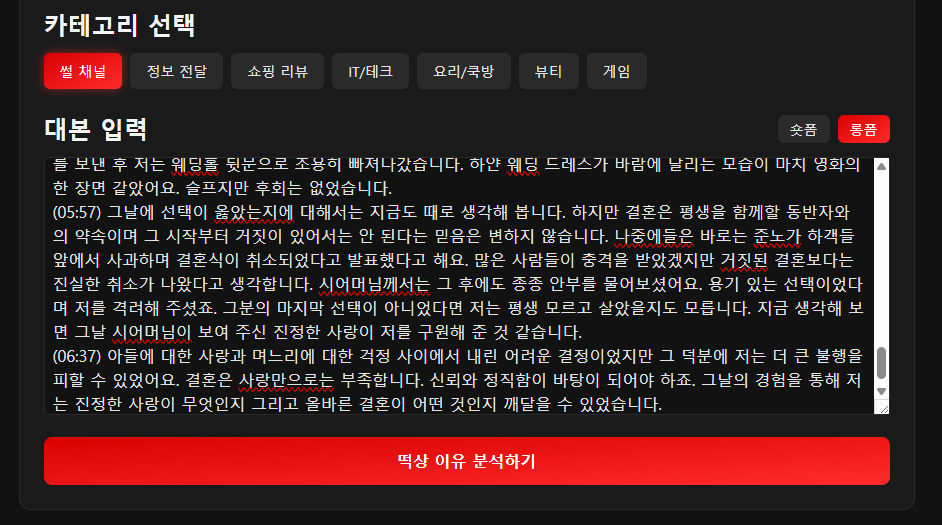
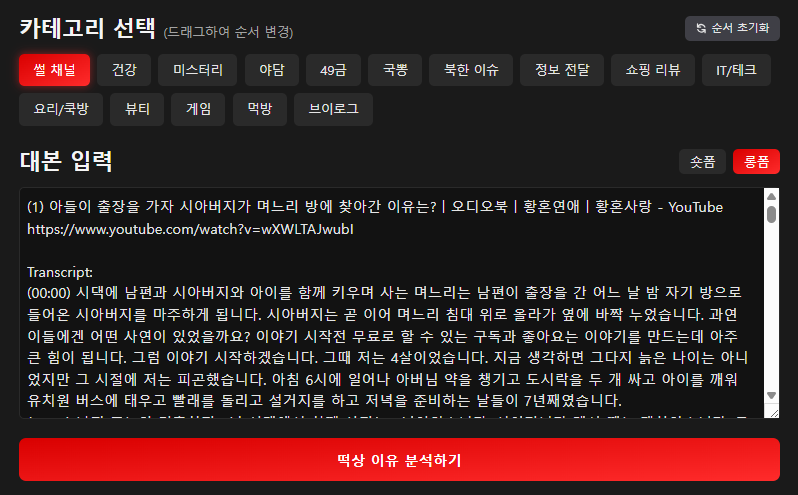
feat: 대본 생성 길이 개선 및 북한 이슈 카테고리 프롬프트 추가
- 1시간 분량 대본 최소 200라인 생성하도록 가이드라인 추가
- 30분: 100라인, 8분: 30라인 최소 생성
- 모든 카테고리에 영상 길이별 명확한 가이드 추가
- 북한 이슈 카테고리 전용 프롬프트 구현
- 사용자 피드백 반영: 1시간 대본이 800자에서 18,000-21,000자 분량으로 개선

diff --git a/services/geminiService.ts b/services/geminiService.ts
@@ -354,14 +354,29 @@ export const generateNewPlan = async (
     const isYadamChannel = category === "야담";
     const isMukbangChannel = category === "먹방";
     const isGukppongChannel = category === "국뽕";
+    const isNorthKoreaChannel = category === "북한 이슈";
     const schema =
-      isStoryChannel || is49Channel || isYadamChannel || isGukppongChannel
+      isStoryChannel || is49Channel || isYadamChannel || isGukppongChannel || isNorthKoreaChannel
         ? storyChannelNewPlanSchema
         : structuredOutlinePlanSchema;
 
     let contents;
+    
+    // 영상 길이에 따른 최소 대본 라인 수 계산
+    const getMinimumLines = (lengthStr: string): number => {
+      if (lengthStr.includes('1시간') || lengthStr.includes('60분')) return 200;
+      if (lengthStr.includes('30분')) return 100;
+      if (lengthStr.includes('8분')) return 30;
+      return 30;
+    };
+    
+    const minimumLines = getMinimumLines(length);
+    const lengthGuideline = length.includes('1시간') || length.includes('60분')
+      ? `\n\n**⚠ 중요: 영상 길이 가이드 (${length})**\n- 최소 ${minimumLines}개 이상의 대사 라인을 생성해야 합니다\n- 1시간 = 약 18,000-21,000자 분량 (한국어 낭독 속도 기준)\n- 각 대사는 자연스러운 대화 길이로 작성하되, 전체 스토리가 ${length} 분량에 맞도록 충분히 상세하게 작성하세요\n- 장면 전환, 복선, 클라이맥스 등 스토리 요소를 풍부하게 포함하세요\n- 대사 사이의 자연스러운 간격과 감정 표현도 충분히 담아주세요`
+      : `\n\n**영상 길이 가이드 (${length})**: 최소 ${minimumLines}개 이상의 대사 라인을 생성하세요.`;
+    
     if (isStoryChannel) {
-      contents = `"${newKeyword}"를 주제로 한 완전히 새로운 스토리 영상 기획안을 만들어 주세요. 목표 영상 길이는 약 ${length}입니다.
+      contents = `"${newKeyword}"를 주제로 한 완전히 새로운 스토리 영상 기획안을 만들어 주세요. 목표 영상 길이는 약 ${length}입니다.${lengthGuideline}
 
 **절대 규칙:**
 - 아래 제공된 분석 자료의 **대본 구조(단계별 흐름)**만 참고하세요
@@ -411,7 +426,7 @@ ${analysisString}
 
       contents = `"${newKeyword}"를 주제로 한 "${
         vlogType || "일상"
-      }" 타입의 완전히 새로운 브이로그를 기획해주세요. 목표 영상 길이는 약 ${length}입니다.
+      }" 타입의 완전히 새로운 브이로그를 기획해주세요. 목표 영상 길이는 약 ${length}입니다.${lengthGuideline}
 
 **절대 규칙:**
 - 아래 제공된 분석 자료의 **대본 구조(단계별 흐름)**만 참고하세요
@@ -460,7 +475,7 @@ ${analysisString}
 
 위 구조의 흐름만 참고하여, "${newKeyword}"를 주제로 완전히 새로운 브이로그 장면과 대사를 창작해주세요. 모든 결과 항목을 지정된 구조에 맞춰 JSON 형식으로 제공해주세요.`;
     } else if (isMukbangChannel) {
-      contents = `"${newKeyword}" 음식으로 완전히 새로운 먹방 영상 기획안을 만들어 주세요. 목표 영상 길이는 약 ${length}입니다.
+      contents = `"${newKeyword}" 음식으로 완전히 새로운 먹방 영상 기획안을 만들어 주세요. 목표 영상 길이는 약 ${length}입니다.${lengthGuideline}
 
 **절대 규칙:**
 - 아래 제공된 분석 자료의 **대본 구조(단계별 흐름)**만 참고하세요
@@ -495,7 +510,7 @@ ${analysisString}
 
 위 구조의 흐름만 참고하여, "${newKeyword}"를 주제로 완전히 새로운 먹방 장면과 리액션을 창작해주세요. 모든 결과 항목을 지정된 구조에 맞춰 JSON 형식으로 제공해주세요.`;
     } else if (category === "쇼핑 리뷰") {
-      contents = `"${newKeyword}" 제품에 대한 완전히 새로운 리뷰 영상 기획안을 만들어 주세요. 목표 영상 길이는 약 ${length}입니다.
+      contents = `"${newKeyword}" 제품에 대한 완전히 새로운 리뷰 영상 기획안을 만들어 주세요. 목표 영상 길이는 약 ${length}입니다.${lengthGuideline}
 
 **절대 규칙:**
 - 아래 제공된 분석 자료의 **대본 구조(단계별 흐름)**만 참고하세요
@@ -516,7 +531,7 @@ ${analysisString}
 
 위 구조의 흐름만 참고하여, "${newKeyword}"를 주제로 완전히 새로운 리뷰 내용을 창작해주세요. 모든 결과 항목을 지정된 구조에 맞춰 JSON 형식으로 제공해주세요.`;
     } else if (category === "49금") {
-      contents = `성인 대상의 성숙한 연애/관계 이야기("${newKeyword}")를 다루는 영상 기획안을 만들어 주세요. 목표 영상 길이는 약 ${length}입니다.
+      contents = `성인 대상의 성숙한 연애/관계 이야기("${newKeyword}")를 다루는 영상 기획안을 만들어 주세요. 목표 영상 길이는 약 ${length}입니다.${lengthGuideline}
 
 **중요: 콘텐츠 가이드라인**
 - 선정적이거나 노골적인 표현은 절대 사용하지 마세요
@@ -598,7 +613,7 @@ ${analysisString}
 
 성공적인 동영상 분석 내용:\n\n${analysisString}\n\n이제 위 분석된 성공 구조를 따르되 새로운 키워드 "${newKeyword}"에 초점을 맞춘 완전히 새로운 조선시대 야담 이야기를 창작해주세요. 원본 대본의 내용이나 스토리를 사용하지 말고, 새로운 인물과 사건으로 구성된 독창적인 야담을 만들어주세요. 모든 결과 항목을 지정된 구조에 맞춰 JSON 형식으로 제공해주세요.`;
     } else if (isGukppongChannel) {
-      contents = `한국의 우수성과 세계 속에서의 위상을 주제로 한 국뽕 콘텐츠("${newKeyword}")를 기획해 주세요. 목표 영상 길이는 약 ${length}입니다.
+      contents = `한국의 우수성과 세계 속에서의 위상을 주제로 한 국뽕 콘텐츠("${newKeyword}")를 기획해 주세요. 목표 영상 길이는 약 ${length}입니다.${lengthGuideline}
 
 **중요: 국뽕 콘텐츠 가이드라인**
 
@@ -697,8 +712,72 @@ ${analysisString}
 ${analysisString}
 
 위 구조의 흐름만 참고하여, "${newKeyword}"를 주제로 완전히 새로운 국뽕 스토리와 대사를 창작해주세요. 원본 대본의 사례나 내용은 사용하지 마세요. 모든 결과 항목을 지정된 구조에 맞춰 JSON 형식으로 제공해주세요.`;
+    } else if (isNorthKoreaChannel) {
+      contents = `북한 관련 이슈와 탈북민 이야기("${newKeyword}")를 다루는 영상 기획안을 만들어 주세요. 목표 영상 길이는 약 ${length}입니다.${lengthGuideline}
+
+**절대 규칙:**
+- 아래 제공된 분석 자료의 **대본 구조(단계별 흐름)**만 참고하세요
+- 원본 영상의 등장인물, 상황, 배경, 대사는 절대 사용하지 마세요
+- "${newKeyword}"를 중심으로 완전히 새로운 인물, 상황, 스토리를 창작하세요
+
+**중요: 북한 이슈 콘텐츠 가이드라인**
+
+북한 이슈 콘텐츠는 북한의 실상과 탈북민의 경험담을 진지하면서도 흥미롭게 다루는 콘텐츠입니다.
+
+**핵심 테마:**
+1. **탈북민의 생생한 증언**
+   - 북한에서의 실제 생활 경험
+   - 탈북 과정의 위험과 역경
+   - 남한 적응기와 문화 충격
+   - 북한에 두고 온 가족에 대한 그리움
+
+2. **북한 사회의 실상**
+   - 북한의 일상생활과 문화
+   - 계급 제도와 사회 구조
+   - 북한 주민들의 실제 생활상
+   - 외부 세계에 대한 북한 주민의 인식
+
+3. **남북 비교와 문화 차이**
+   - 같은 언어, 다른 문화
+   - 생활 방식의 차이
+   - 가치관과 사고방식의 차이
+   - 통일에 대한 현실적 고민
+
+**스토리텔링 구조:**
+1. 후크: 충격적이거나 흥미로운 북한 관련 사실
+2. 배경: 탈북민의 북한 생활 소개
+3. 전개: 구체적인 경험담과 에피소드
+4. 절정: 가장 인상 깊거나 극적인 순간
+5. 마무리: 현재의 삶과 메시지
+
+**배역 구성:**
+- '탈북민', '인터뷰어', '친구', '가족' 등
+- 북한식 억양과 표현을 자연스럽게 반영
+- 감정선을 섬세하게 표현
+
+**주의사항:**
+- 북한 주민에 대한 존중과 이해 유지
+- 선정적이거나 자극적인 표현 지양
+- 팩트 기반의 정보 전달
+- 탈북민의 인권과 안전 고려
+- 통일과 화해의 메시지 포함
+
+각 대사마다 북한의 실상이나 탈북 과정을 시각적으로 표현하는 이미지 생성 프롬프트('imagePrompt')를 반드시 포함해야 합니다.
+
+**이미지 프롬프트 작성 가이드 - 북한 이슈 스타일**:
+- 핵심 키워드: documentary style, historical, somber mood, contrast between light and dark, emotional, realistic
+- 다큐멘터리 같은 진지하고 사실적인 분위기
+- 북한의 특징적 요소 반영 (건축물, 의상, 생활 모습 등)
+- 탈북 과정의 긴장감과 감정 표현
+- 예시: "documentary style photo of North Korean daily life, somber mood, historical atmosphere, realistic depiction, contrast lighting, emotional storytelling"
+
+**참고용 대본 구조 (구조만 차용, 내용은 절대 사용 금지):**
+
+${analysisString}
+
+위 구조의 단계별 흐름(예: 도입→전개→절정→결말)만 참고하여, "${newKeyword}"를 주제로 완전히 새로운 북한 이슈 스토리를 창작해주세요. 모든 결과 항목을 지정된 구조에 맞춰 JSON 형식으로 제공해주세요.`;
     } else {
-      contents = `"${newKeyword}" 주제에 대한 완전히 새로운 정보성 영상 기획안을 만들어 주세요. 목표 영상 길이는 약 ${length}입니다.
+      contents = `"${newKeyword}" 주제에 대한 완전히 새로운 정보성 영상 기획안을 만들어 주세요. 목표 영상 길이는 약 ${length}입니다.${lengthGuideline}
 
 **절대 규칙:**
 - 아래 제공된 분석 자료의 **대본 구조(단계별 흐름)**만 참고하세요
